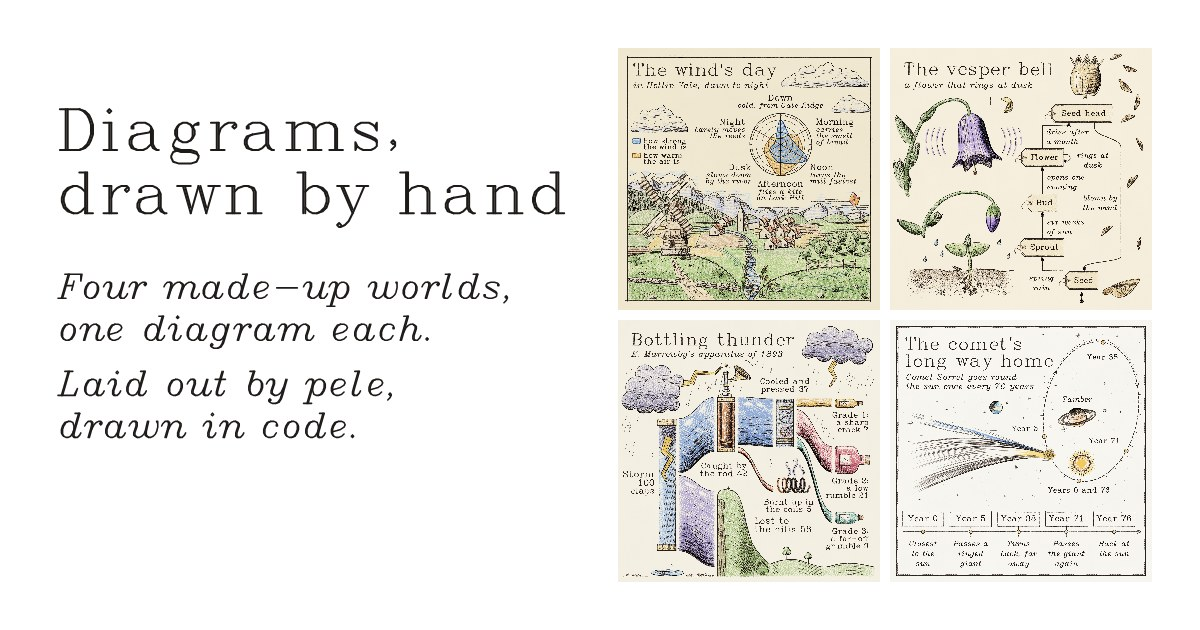
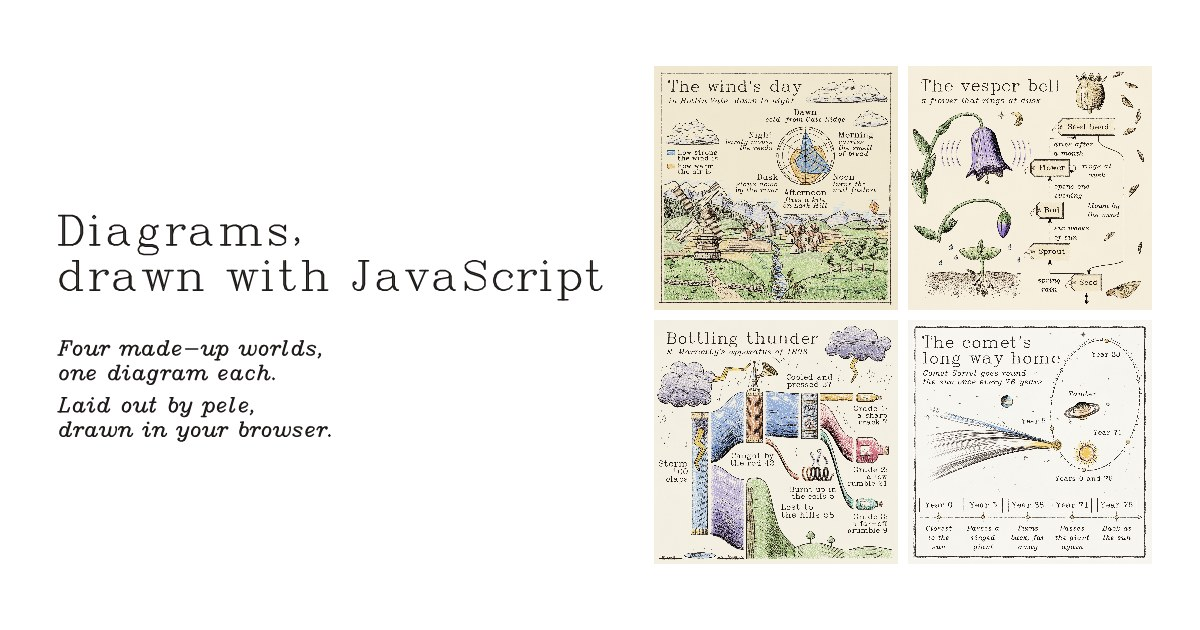
diagrams-site: call it "Diagrams, drawn with JavaScript"

diff --git a/index.html b/index.html
@@ -3,20 +3,20 @@
 <head>
 <meta charset="utf-8">
 <meta name="viewport" content="width=device-width, initial-scale=1">
-<title>Diagrams, drawn by hand</title>
+<title>Diagrams, drawn with JavaScript</title>
 <meta name="description" content="Four made-up worlds, one diagram each. pele lays every diagram out, and JavaScript draws it in your browser with a simulated pen and coloured pencils.">
 <meta name="theme-color" content="#ffffff">
 <meta property="og:type" content="website">
-<meta property="og:title" content="Diagrams, drawn by hand">
-<meta property="og:description" content="Four made-up worlds, one diagram each. Laid out by pele, drawn in code.">
+<meta property="og:title" content="Diagrams, drawn with JavaScript">
+<meta property="og:description" content="Four made-up worlds, one diagram each. Laid out by pele, drawn in your browser.">
 <meta property="og:url" content="">
 <meta property="og:image" content="og.jpg">
 <meta property="og:image:width" content="1200">
 <meta property="og:image:height" content="630">
-<meta property="og:image:alt" content="The title Diagrams, drawn by hand, beside four hand-drawn diagram plates: a windy valley, a bell flower, a thunder machine and a comet.">
+<meta property="og:image:alt" content="The title Diagrams, drawn with JavaScript, beside four diagram plates in pen and pencil: a windy valley, a bell flower, a thunder machine and a comet.">
 <meta name="twitter:card" content="summary_large_image">
-<meta name="twitter:title" content="Diagrams, drawn by hand">
-<meta name="twitter:description" content="Four made-up worlds, one diagram each. Laid out by pele, drawn in code.">
+<meta name="twitter:title" content="Diagrams, drawn with JavaScript">
+<meta name="twitter:description" content="Four made-up worlds, one diagram each. Laid out by pele, drawn in your browser.">
 <meta name="twitter:image" content="og.jpg">
 <link rel="icon" type="image/png" href="favicon.png">
 <link rel="apple-touch-icon" href="apple-touch-icon.png">
@@ -28,7 +28,7 @@
 <main>
 
 <header>
-  <h1>Diagrams, drawn by hand</h1>
+  <h1>Diagrams, drawn with JavaScript</h1>
   <p class="lede">Four made-up worlds, one diagram each. <a href="https://pele.run">pele</a> lays every diagram out, and JavaScript draws it, stroke by stroke, with a simulated pen and coloured pencils. Nothing here is an image file: each picture is drawn in your browser as you read.</p>
   <noscript><p class="lede">The pictures on this page are drawn by JavaScript. Turn it on to see them.</p></noscript>
 </header>
@@ -38,28 +38,28 @@
 
   <figure class="plate">
     <canvas data-plate="wind" width="2048" height="2048" role="img"
-      aria-label="A hand-drawn plate titled The wind's day, in Hollin Vale, dawn to night. A radar chart in the sky over a valley with a windmill, a village, a river and a kite compares how strong the wind is with how warm the air is at dawn, morning, noon, afternoon, dusk and night. The wind is strongest at noon, then dawn, and almost still at night. The air is warmest in the afternoon and coldest at dawn."></canvas>
+      aria-label="A pen-and-pencil plate titled The wind's day, in Hollin Vale, dawn to night. A radar chart in the sky over a valley with a windmill, a village, a river and a kite compares how strong the wind is with how warm the air is at dawn, morning, noon, afternoon, dusk and night. The wind is strongest at noon, then dawn, and almost still at night. The air is warmest in the afternoon and coldest at dawn."></canvas>
     <figcaption><h3>The wind's day</h3><span>A radar chart of one day's wind in a valley.</span></figcaption>
     <p class="status"><span data-status="wind" aria-live="polite">Waiting to be drawn.</span> <button type="button" class="save" data-save="wind" hidden>Save as PNG</button></p>
   </figure>
 
   <figure class="plate">
     <canvas data-plate="vesper" width="2048" height="2048" role="img"
-      aria-label="A hand-drawn botanical plate titled The vesper bell, a flower that rings at dusk. A state diagram goes from seed to sprout with spring rain, to bud after six weeks of sun, to flower when it opens one evening. The flower rings at dusk, dries after a month into a seed head, and its seeds are blown by the wind back to seed. Drawings of the bell, the bud, the sprout in soil, the seed head and winged seeds sit beside the diagram."></canvas>
+      aria-label="A pen-and-pencil botanical plate titled The vesper bell, a flower that rings at dusk. A state diagram goes from seed to sprout with spring rain, to bud after six weeks of sun, to flower when it opens one evening. The flower rings at dusk, dries after a month into a seed head, and its seeds are blown by the wind back to seed. Drawings of the bell, the bud, the sprout in soil, the seed head and winged seeds sit beside the diagram."></canvas>
     <figcaption><h3>The vesper bell</h3><span>A state diagram of a flower's life.</span></figcaption>
     <p class="status"><span data-status="vesper" aria-live="polite">Waiting to be drawn.</span> <button type="button" class="save" data-save="vesper" hidden>Save as PNG</button></p>
   </figure>
 
   <figure class="plate">
     <canvas data-plate="thunder" width="2048" height="2048" role="img"
-      aria-label="A hand-drawn patent plate titled Bottling thunder, E. Marrowby's apparatus of 1893. A sankey diagram runs through the machine: of a storm's 100 claps, 58 are lost to the hills and 42 are caught by the rod. Of those, 5 burn up in the coils and 37 are cooled and pressed into three bottles: grade 1, a sharp crack, 7; grade 2, a low rumble, 21; grade 3, a far-off grumble, 9."></canvas>
+      aria-label="A pen-and-pencil patent plate titled Bottling thunder, E. Marrowby's apparatus of 1893. A sankey diagram runs through the machine: of a storm's 100 claps, 58 are lost to the hills and 42 are caught by the rod. Of those, 5 burn up in the coils and 37 are cooled and pressed into three bottles: grade 1, a sharp crack, 7; grade 2, a low rumble, 21; grade 3, a far-off grumble, 9."></canvas>
     <figcaption><h3>Bottling thunder</h3><span>A sankey of a storm, through a machine, into bottles.</span></figcaption>
     <p class="status"><span data-status="thunder" aria-live="polite">Waiting to be drawn.</span> <button type="button" class="save" data-save="thunder" hidden>Save as PNG</button></p>
   </figure>
 
   <figure class="plate">
     <canvas data-plate="comet" width="2048" height="2048" role="img"
-      aria-label="A hand-drawn star chart titled The comet's long way home. Comet Sorrel goes round the sun once every 76 years. A timeline under the drawing of its orbit reads: year 0, closest to the sun; year 5, passes a ringed giant; year 38, turns back, far away; year 71, passes the giant again; year 76, back at the sun."></canvas>
+      aria-label="A pen-and-pencil star chart titled The comet's long way home. Comet Sorrel goes round the sun once every 76 years. A timeline under the drawing of its orbit reads: year 0, closest to the sun; year 5, passes a ringed giant; year 38, turns back, far away; year 71, passes the giant again; year 76, back at the sun."></canvas>
     <figcaption><h3>The comet's long way home</h3><span>A timeline of one 76-year orbit.</span></figcaption>
     <p class="status"><span data-status="comet" aria-live="polite">Waiting to be drawn.</span> <button type="button" class="save" data-save="comet" hidden>Save as PNG</button></p>
   </figure>
@@ -70,7 +70,7 @@
   <ol class="steps">
     <li><b>Write the diagram as text.</b> A few lines of Mermaid.</li>
     <li><b>Let pele lay it out.</b> pele, Obsidian's open-source Mermaid renderer, places every box, band, curve and label. It measures each word with the same hand lettering the drawing uses, so everything fits.</li>
-    <li><b>Draw it by hand, in code.</b> A program reads pele's shapes back and redraws them with a simulated fine pen and coloured pencils, then draws the world around them. Every letter is traced from A. V. Hershey's 1967 engraving letters. The program runs right here, in your browser.</li>
+    <li><b>Draw it in code.</b> A program reads pele's shapes back and redraws them with a simulated fine pen and coloured pencils, then draws the world around them. Every letter is traced from A. V. Hershey's 1967 engraving letters. The program runs right here, in your browser.</li>
   </ol>
 
   <div class="made" data-made="wind">

diff --git a/site.js b/site.js
@@ -56,7 +56,7 @@ async function made(n) {
   const M = JSON.parse(await getMarks(n)).marks, ov = document.querySelector(`canvas[data-over="${n}"]`), W = ov.width, k = W / 2048, g = ov.getContext('2d');
   g.imageSmoothingQuality = 'high'; g.drawImage(cvs[n], 0, 0, W, W); g.fillStyle = 'rgba(255,255,255,.62)'; g.fillRect(0, 0, W, W);
   g.strokeStyle = '#1b4fd1'; g.fillStyle = 'rgba(27,79,209,.10)'; g.lineWidth = 2.2 * W / 1024; g.lineJoin = g.lineCap = 'round';
-  // shapes only: the words were lettered by hand where they fit best, and pele's legend and label backings weren't drawn
+  // shapes only: the plate letters its words where they fit best, and pele's legend and label backings weren't drawn
   for (const m of M) {
     if (!m.P || m.P.length < 2 || m.tag === 'text' || m.cls.includes('pele-legend') || m.cls.includes('pele-edge-label')) continue;
     g.beginPath(); g.moveTo(m.P[0][0] * k, m.P[0][1] * k); for (const q of m.P.slice(1)) g.lineTo(q[0] * k, q[1] * k); if (m.closed) { g.closePath(); g.fill() } g.stroke();

diff --git a/README.md b/README.md
@@ -1,4 +1,4 @@
-# Diagrams, drawn by hand
+# Diagrams, drawn with JavaScript
 
 A one-page site of four diagram plates and the burger sheet. Nothing on it is an image file: every plate is drawn
 in the visitor's browser, in a Worker, by the same JavaScript that drew it in Node, from pele's layout of the
